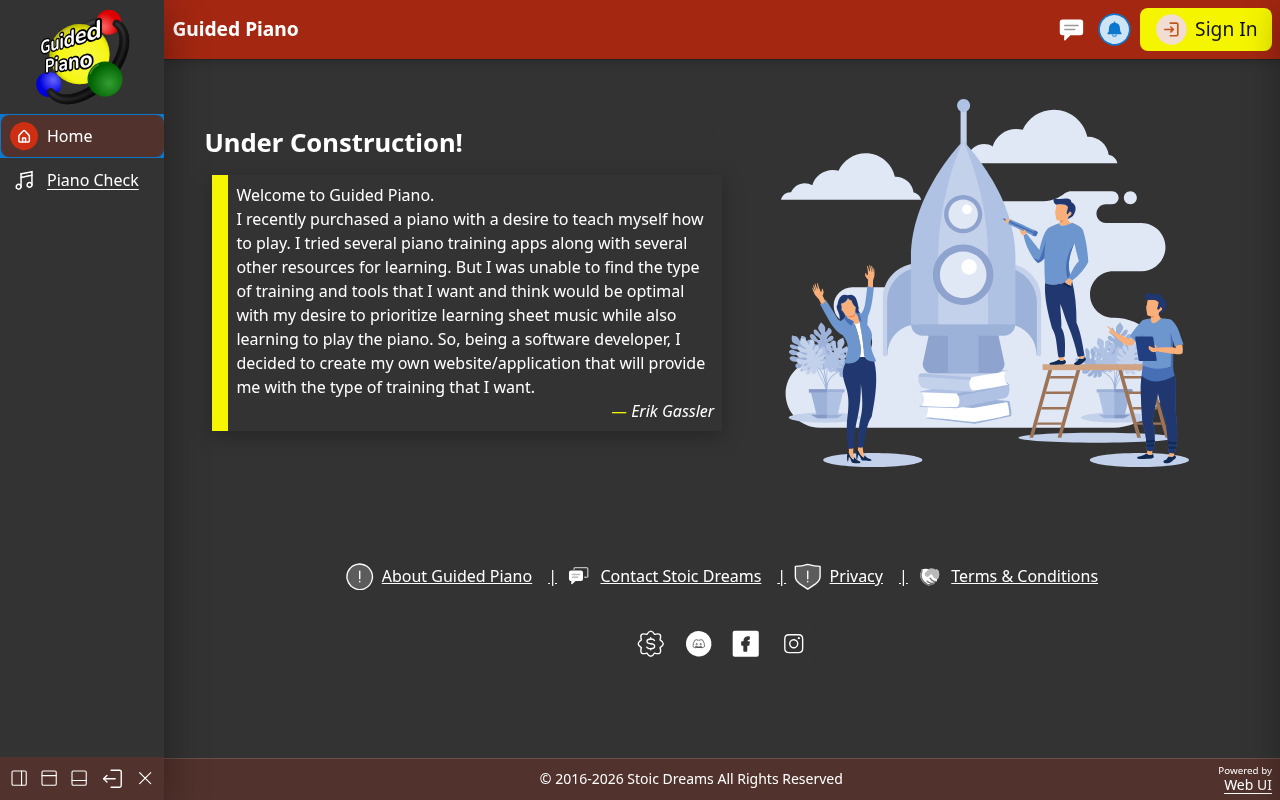
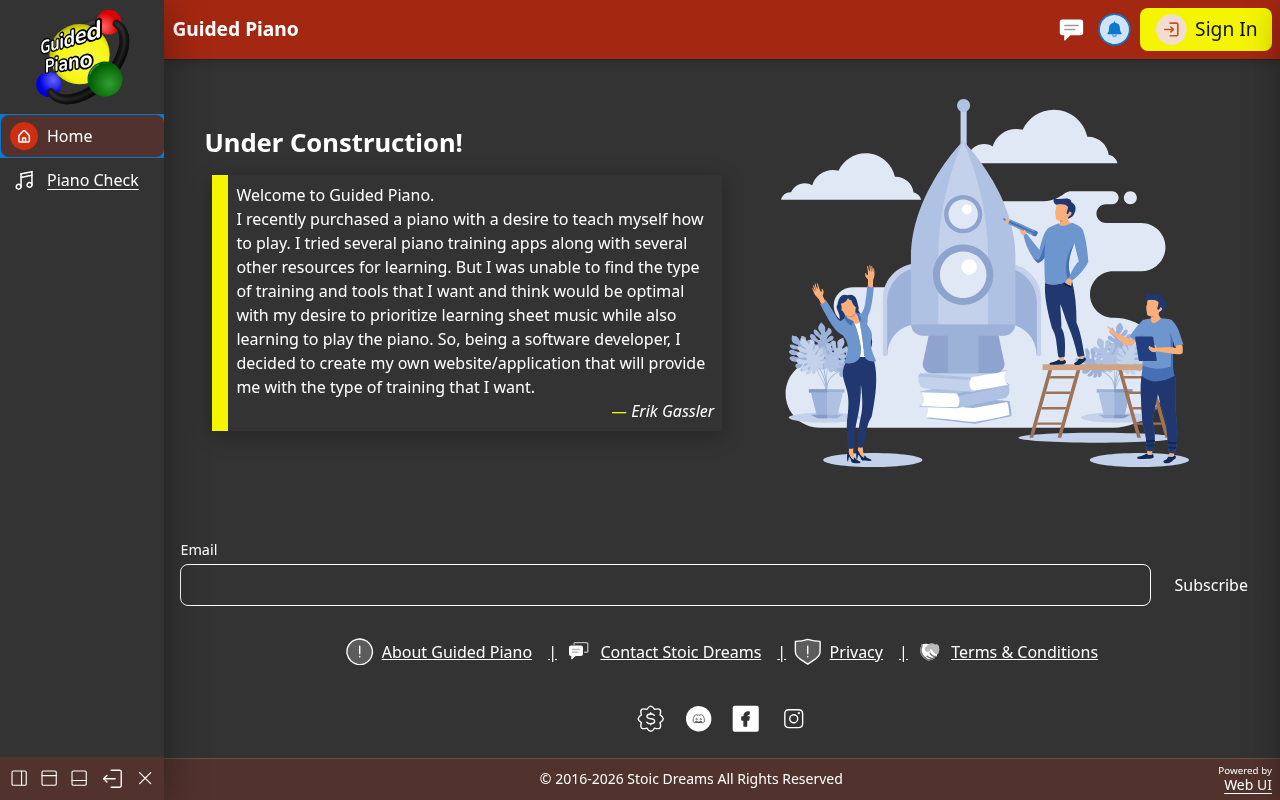
Stoic Dreams newsletter signup Feature: The footer has the Stoic Dreams newsletter signup form, as stoicdreams.com does

diff --git a/webapp/root_files/service-worker.min.js b/webapp/root_files/service-worker.min.js
@@ -1,1 +1,1 @@
-self.addEventListener("install",t=>t.waitUntil(onInstall(t))),self.addEventListener("activate",t=>t.waitUntil(onActivate(t))),self.addEventListener("fetch",t=>{const e=new URL(t.request.url);e.protocol==="ipc:"||e.protocol==="tauri:"||e.hostname==="ipc.localhost"||e.hostname==="tauri.localhost"||e.hostname.startsWith("127")||e.hostname==="localhost"||t.request.url.startsWith("http")&&allowCache(t.request)&&t.respondWith(onFetch(t))});const currentVersion="0.1.29",cacheNamePrefix="offline-cache-",cacheName=`${cacheNamePrefix}${currentVersion}`;async function onInstall(t){self.skipWaiting()}async function onActivate(t){const e=await caches.keys();await Promise.all(e.filter(a=>a.startsWith(cacheNamePrefix)&&a!==cacheName).map(a=>caches.delete(a))),await self.clients.claim()}async function onFetch(t){const e=await caches.open(cacheName);let a;try{a=await fetch(applyCacheBusting(t.request))}catch(n){const c=await e.match(t.request);if(c)return c;throw n}return a.ok?(t.waitUntil(e.put(t.request,a.clone()).catch(()=>{})),a):await e.match(t.request)||a}function applyCacheBusting(t){try{const e=new URL(t.url);return e.searchParams.set("_",Date.now()),new Request(e.toString(),t)}catch{return t}}function allowCache(t){return!(t.method!=="GET"||t.mode==="navigate")}
+self.addEventListener("install",t=>t.waitUntil(onInstall(t))),self.addEventListener("activate",t=>t.waitUntil(onActivate(t))),self.addEventListener("fetch",t=>{const e=new URL(t.request.url);e.protocol==="ipc:"||e.protocol==="tauri:"||e.hostname==="ipc.localhost"||e.hostname==="tauri.localhost"||e.hostname.startsWith("127")||e.hostname==="localhost"||t.request.url.startsWith("http")&&allowCache(t.request)&&t.respondWith(onFetch(t))});const currentVersion="0.1.30",cacheNamePrefix="offline-cache-",cacheName=`${cacheNamePrefix}${currentVersion}`;async function onInstall(t){self.skipWaiting()}async function onActivate(t){const e=await caches.keys();await Promise.all(e.filter(a=>a.startsWith(cacheNamePrefix)&&a!==cacheName).map(a=>caches.delete(a))),await self.clients.claim()}async function onFetch(t){const e=await caches.open(cacheName);let a;try{a=await fetch(applyCacheBusting(t.request))}catch(n){const c=await e.match(t.request);if(c)return c;throw n}return a.ok?(t.waitUntil(e.put(t.request,a.clone()).catch(()=>{})),a):await e.match(t.request)||a}function applyCacheBusting(t){try{const e=new URL(t.url);return e.searchParams.set("_",Date.now()),new Request(e.toString(),t)}catch{return t}}function allowCache(t){return!(t.method!=="GET"||t.mode==="navigate")}

diff --git a/webapp/pages/index.html b/webapp/pages/index.html
@@ -78,12 +78,13 @@
 	<link rel="preload" as="script" href="https://cdn.myfi.ws/webui/link.min.js" crossorigin="anonymous" />
 	<link rel="preload" as="script" href="https://cdn.myfi.ws/webui/myfi-info.min.js" crossorigin="anonymous" />
 	<link rel="preload" as="script" href="https://cdn.myfi.ws/webui/nav.min.js" crossorigin="anonymous" />
+	<link rel="preload" as="script" href="https://cdn.myfi.ws/webui/newsletter.min.js" crossorigin="anonymous" />
 	<link rel="preload" as="script" href="https://cdn.myfi.ws/webui/next-page.min.js" crossorigin="anonymous" />
 	<link rel="preload" as="script" href="https://cdn.myfi.ws/webui/page-footer.min.js" crossorigin="anonymous" />
 	<link rel="preload" as="script" href="https://cdn.myfi.ws/webui/stoic-dreams-logo.min.js" crossorigin="anonymous" />
 	<link rel="preload" as="script" href="https://cdn.myfi.ws/webui/stoic-social-links.min.js" crossorigin="anonymous" />
 	<link rel="preload" as="script" href="https://cdn.myfi.ws/webui/under-construction.min.js" crossorigin="anonymous" />
-	<meta name="webui-prerender" content="2eeb0bfcc0">
+	<meta name="webui-prerender" content="03e06ab645">
 </head>
 
 <body>
@@ -129,6 +130,7 @@
 		<noscript>Javascript is required to view this site</noscript>
 		<webui-page-footer copyright="2016" company="Stoic Dreams">
 			<webui-next-page theme="tertiary" data-subscribe="page-next-page"></webui-next-page>
+			<webui-newsletter key="703a9b5e-0a14-4ed7-9618-ce96ca4e3e21"></webui-newsletter>
 			<webui-flex class="my-3" justify="center" wrap>
 				<webui-link href="/about" icon="circle_exclamation|backing|bordered">About Guided Piano</webui-link>
 				<webui-link href="/contact" icon="messages|fill|shade:tri">Contact Stoic Dreams</webui-link>

diff --git a/webapp/pages/about.html b/webapp/pages/about.html
@@ -80,11 +80,12 @@
 	<link rel="preload" as="script" href="https://cdn.myfi.ws/webui/link.min.js" crossorigin="anonymous" />
 	<link rel="preload" as="script" href="https://cdn.myfi.ws/webui/myfi-info.min.js" crossorigin="anonymous" />
 	<link rel="preload" as="script" href="https://cdn.myfi.ws/webui/nav.min.js" crossorigin="anonymous" />
+	<link rel="preload" as="script" href="https://cdn.myfi.ws/webui/newsletter.min.js" crossorigin="anonymous" />
 	<link rel="preload" as="script" href="https://cdn.myfi.ws/webui/next-page.min.js" crossorigin="anonymous" />
 	<link rel="preload" as="script" href="https://cdn.myfi.ws/webui/page-footer.min.js" crossorigin="anonymous" />
 	<link rel="preload" as="script" href="https://cdn.myfi.ws/webui/stoic-dreams-logo.min.js" crossorigin="anonymous" />
 	<link rel="preload" as="script" href="https://cdn.myfi.ws/webui/stoic-social-links.min.js" crossorigin="anonymous" />
-	<meta name="webui-prerender" content="fa6b22b4ef">
+	<meta name="webui-prerender" content="13ef49bd04">
 </head>
 
 <body>
@@ -132,6 +133,7 @@
 		<noscript>Javascript is required to view this site</noscript>
 		<webui-page-footer copyright="2016" company="Stoic Dreams">
 			<webui-next-page theme="tertiary" data-subscribe="page-next-page"></webui-next-page>
+			<webui-newsletter key="703a9b5e-0a14-4ed7-9618-ce96ca4e3e21"></webui-newsletter>
 			<webui-flex class="my-3" justify="center" wrap>
 				<webui-link href="/about" icon="circle_exclamation|backing|bordered">About Guided Piano</webui-link>
 				<webui-link href="/contact" icon="messages|fill|shade:tri">Contact Stoic Dreams</webui-link>

diff --git a/webapp/pages/contact.html b/webapp/pages/contact.html
@@ -80,11 +80,12 @@
 	<link rel="preload" as="script" href="https://cdn.myfi.ws/webui/link.min.js" crossorigin="anonymous" />
 	<link rel="preload" as="script" href="https://cdn.myfi.ws/webui/myfi-info.min.js" crossorigin="anonymous" />
 	<link rel="preload" as="script" href="https://cdn.myfi.ws/webui/nav.min.js" crossorigin="anonymous" />
+	<link rel="preload" as="script" href="https://cdn.myfi.ws/webui/newsletter.min.js" crossorigin="anonymous" />
 	<link rel="preload" as="script" href="https://cdn.myfi.ws/webui/next-page.min.js" crossorigin="anonymous" />
 	<link rel="preload" as="script" href="https://cdn.myfi.ws/webui/page-footer.min.js" crossorigin="anonymous" />
 	<link rel="preload" as="script" href="https://cdn.myfi.ws/webui/stoic-dreams-logo.min.js" crossorigin="anonymous" />
 	<link rel="preload" as="script" href="https://cdn.myfi.ws/webui/stoic-social-links.min.js" crossorigin="anonymous" />
-	<meta name="webui-prerender" content="0eb122ea9c">
+	<meta name="webui-prerender" content="00576f1f85">
 </head>
 
 <body>
@@ -130,6 +131,7 @@
 		<noscript>Javascript is required to view this site</noscript>
 		<webui-page-footer copyright="2016" company="Stoic Dreams">
 			<webui-next-page theme="tertiary" data-subscribe="page-next-page"></webui-next-page>
+			<webui-newsletter key="703a9b5e-0a14-4ed7-9618-ce96ca4e3e21"></webui-newsletter>
 			<webui-flex class="my-3" justify="center" wrap>
 				<webui-link href="/about" icon="circle_exclamation|backing|bordered">About Guided Piano</webui-link>
 				<webui-link href="/contact" icon="messages|fill|shade:tri">Contact Stoic Dreams</webui-link>

diff --git a/webapp/pages/piano-check.html b/webapp/pages/piano-check.html
@@ -80,11 +80,12 @@
 	<link rel="preload" as="script" href="https://cdn.myfi.ws/webui/link.min.js" crossorigin="anonymous" />
 	<link rel="preload" as="script" href="https://cdn.myfi.ws/webui/myfi-info.min.js" crossorigin="anonymous" />
 	<link rel="preload" as="script" href="https://cdn.myfi.ws/webui/nav.min.js" crossorigin="anonymous" />
+	<link rel="preload" as="script" href="https://cdn.myfi.ws/webui/newsletter.min.js" crossorigin="anonymous" />
 	<link rel="preload" as="script" href="https://cdn.myfi.ws/webui/next-page.min.js" crossorigin="anonymous" />
 	<link rel="preload" as="script" href="https://cdn.myfi.ws/webui/page-footer.min.js" crossorigin="anonymous" />
 	<link rel="preload" as="script" href="https://cdn.myfi.ws/webui/stoic-dreams-logo.min.js" crossorigin="anonymous" />
 	<link rel="preload" as="script" href="https://cdn.myfi.ws/webui/stoic-social-links.min.js" crossorigin="anonymous" />
-	<meta name="webui-prerender" content="bb9aa34da7">
+	<meta name="webui-prerender" content="00a293f67d">
 </head>
 
 <body>
@@ -130,6 +131,7 @@
 		<noscript>Javascript is required to view this site</noscript>
 		<webui-page-footer copyright="2016" company="Stoic Dreams">
 			<webui-next-page theme="tertiary" data-subscribe="page-next-page"></webui-next-page>
+			<webui-newsletter key="703a9b5e-0a14-4ed7-9618-ce96ca4e3e21"></webui-newsletter>
 			<webui-flex class="my-3" justify="center" wrap>
 				<webui-link href="/about" icon="circle_exclamation|backing|bordered">About Guided Piano</webui-link>
 				<webui-link href="/contact" icon="messages|fill|shade:tri">Contact Stoic Dreams</webui-link>

diff --git a/webapp/pages/privacy.html b/webapp/pages/privacy.html
@@ -80,11 +80,12 @@
 	<link rel="preload" as="script" href="https://cdn.myfi.ws/webui/link.min.js" crossorigin="anonymous" />
 	<link rel="preload" as="script" href="https://cdn.myfi.ws/webui/myfi-info.min.js" crossorigin="anonymous" />
 	<link rel="preload" as="script" href="https://cdn.myfi.ws/webui/nav.min.js" crossorigin="anonymous" />
+	<link rel="preload" as="script" href="https://cdn.myfi.ws/webui/newsletter.min.js" crossorigin="anonymous" />
 	<link rel="preload" as="script" href="https://cdn.myfi.ws/webui/next-page.min.js" crossorigin="anonymous" />
 	<link rel="preload" as="script" href="https://cdn.myfi.ws/webui/page-footer.min.js" crossorigin="anonymous" />
 	<link rel="preload" as="script" href="https://cdn.myfi.ws/webui/stoic-dreams-logo.min.js" crossorigin="anonymous" />
 	<link rel="preload" as="script" href="https://cdn.myfi.ws/webui/stoic-social-links.min.js" crossorigin="anonymous" />
-	<meta name="webui-prerender" content="6cdaea6bc4">
+	<meta name="webui-prerender" content="9ea74768a7">
 </head>
 
 <body>
@@ -130,6 +131,7 @@
 		<noscript>Javascript is required to view this site</noscript>
 		<webui-page-footer copyright="2016" company="Stoic Dreams">
 			<webui-next-page theme="tertiary" data-subscribe="page-next-page"></webui-next-page>
+			<webui-newsletter key="703a9b5e-0a14-4ed7-9618-ce96ca4e3e21"></webui-newsletter>
 			<webui-flex class="my-3" justify="center" wrap>
 				<webui-link href="/about" icon="circle_exclamation|backing|bordered">About Guided Piano</webui-link>
 				<webui-link href="/contact" icon="messages|fill|shade:tri">Contact Stoic Dreams</webui-link>

diff --git a/webapp/pages/terms.html b/webapp/pages/terms.html
@@ -80,11 +80,12 @@
 	<link rel="preload" as="script" href="https://cdn.myfi.ws/webui/link.min.js" crossorigin="anonymous" />
 	<link rel="preload" as="script" href="https://cdn.myfi.ws/webui/myfi-info.min.js" crossorigin="anonymous" />
 	<link rel="preload" as="script" href="https://cdn.myfi.ws/webui/nav.min.js" crossorigin="anonymous" />
+	<link rel="preload" as="script" href="https://cdn.myfi.ws/webui/newsletter.min.js" crossorigin="anonymous" />
 	<link rel="preload" as="script" href="https://cdn.myfi.ws/webui/next-page.min.js" crossorigin="anonymous" />
 	<link rel="preload" as="script" href="https://cdn.myfi.ws/webui/page-footer.min.js" crossorigin="anonymous" />
 	<link rel="preload" as="script" href="https://cdn.myfi.ws/webui/stoic-dreams-logo.min.js" crossorigin="anonymous" />
 	<link rel="preload" as="script" href="https://cdn.myfi.ws/webui/stoic-social-links.min.js" crossorigin="anonymous" />
-	<meta name="webui-prerender" content="1d0d3ff5f5">
+	<meta name="webui-prerender" content="62e8e19b20">
 </head>
 
 <body>
@@ -130,6 +131,7 @@
 		<noscript>Javascript is required to view this site</noscript>
 		<webui-page-footer copyright="2016" company="Stoic Dreams">
 			<webui-next-page theme="tertiary" data-subscribe="page-next-page"></webui-next-page>
+			<webui-newsletter key="703a9b5e-0a14-4ed7-9618-ce96ca4e3e21"></webui-newsletter>
 			<webui-flex class="my-3" justify="center" wrap>
 				<webui-link href="/about" icon="circle_exclamation|backing|bordered">About Guided Piano</webui-link>
 				<webui-link href="/contact" icon="messages|fill|shade:tri">Contact Stoic Dreams</webui-link>

diff --git a/webapp/index.html b/webapp/index.html
@@ -116,6 +116,7 @@
 		<noscript>Javascript is required to view this site</noscript>
 		<webui-page-footer copyright="2016" company="Stoic Dreams">
 			<webui-next-page theme="tertiary" data-subscribe="page-next-page"></webui-next-page>
+			<webui-newsletter key="703a9b5e-0a14-4ed7-9618-ce96ca4e3e21"></webui-newsletter>
 			<webui-flex class="my-3" justify="center" wrap>
 				<webui-link href="/about" icon="circle_exclamation|backing|bordered">About {APP_NAME}</webui-link>
 				<webui-link href="/contact" icon="messages|fill|shade:tri">Contact {COMPANY_SINGULAR}</webui-link>

diff --git a/webapp/root_files/service-worker.js b/webapp/root_files/service-worker.js
@@ -20,7 +20,7 @@ self.addEventListener('fetch', event => {
     }
     event.respondWith(onFetch(event))
 });
-const currentVersion = '0.1.29';
+const currentVersion = '0.1.30';
 const cacheNamePrefix = 'offline-cache-';
 const cacheName = `${cacheNamePrefix}${currentVersion}`;
 async function onInstall(event) {

diff --git a/Docs/README.md b/Docs/README.md
@@ -1,6 +1,6 @@
 # Guided Piano
 
-[Version: 0.1.29](https://github.com/StoicDreams/GuidedPiano)
+[Version: 0.1.30](https://github.com/StoicDreams/GuidedPiano)
 
 [WebUI](https://github.com/StoicDreams/WebUI)
 
